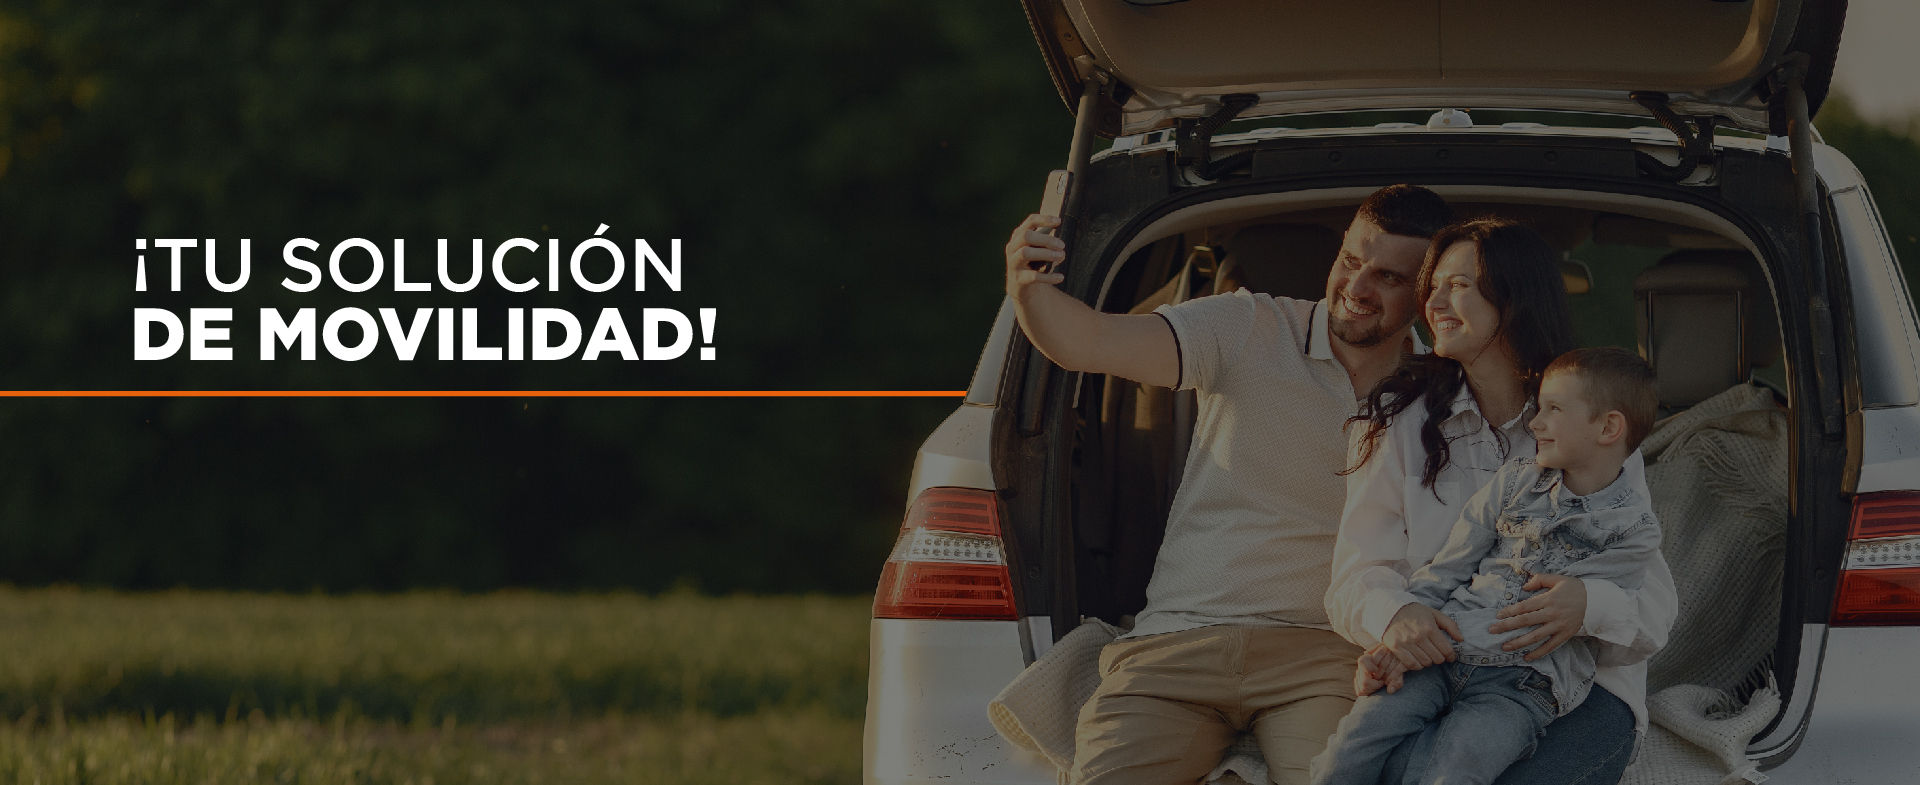
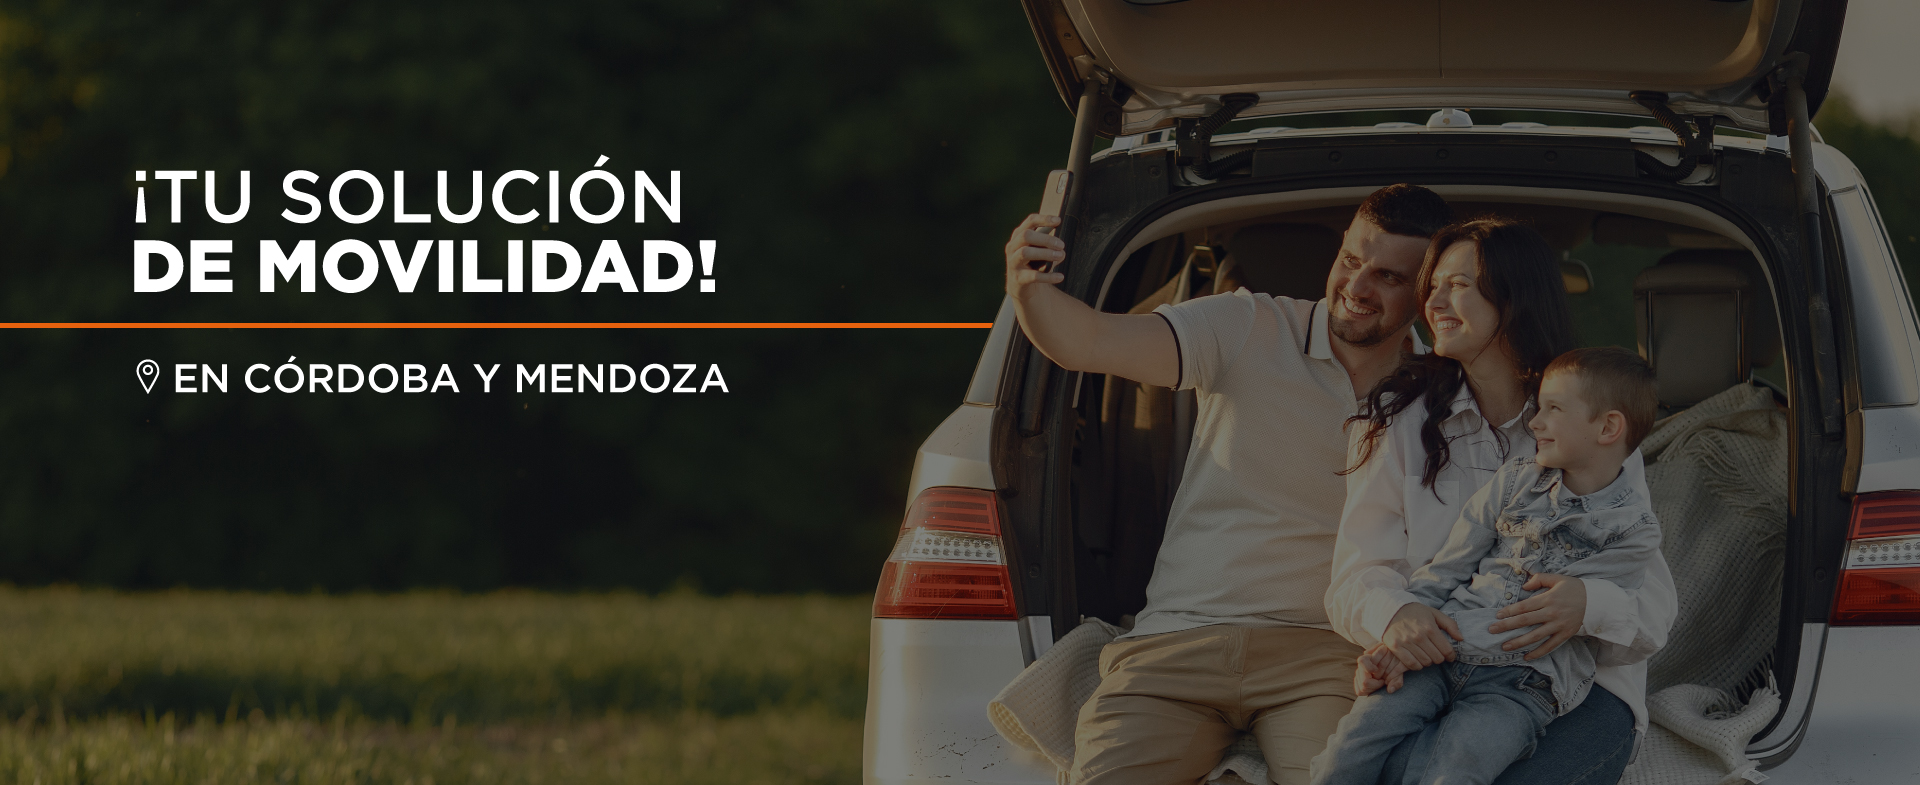
ultimos cambios

Changed region(s): [[0.0, 0.214, 0.5312, 0.5197], [0.9688, 0.6726, 1.0, 0.7032]]

diff --git a/nosotros.html b/nosotros.html
@@ -295,7 +295,7 @@
                 <div class="col-lg-4 col-md-4"><img src="images/empresa.jpg" alt=""></div>
 				 <div class="col-lg-8">
                     <h3 class="margin-bottom-20px text-red  text-uppercase trn">Nosotros</h3>
-                    <h6 class="margin-bottom-30px trn">Rentauto surgió en 2004 como una PyME encargada de satisfacer la demanda creciente en el alquiler de autos sin chofer en Córdoba. Somos una empresa dedicada a dar soluciones de movilidad, con una trayectoria en el rubro de casi 20 años, posicionándonos como líderes en el mercado local de alquiler de vehículos, avalados por numerosas empresas y particulares que día a día nos eligen.</h6>
+                    <h6 class="margin-bottom-30px trn">Rentauto surgió en 2004 como una PyME encargada de satisfacer la demanda creciente en el alquiler de autos sin chofer en Córdoba.Luego, expandimos nuestros servicios en Mendoza.Somos una empresa dedicada a dar soluciones de movilidad, con una trayectoria en el rubro de casi 20 años, posicionándonos como líderes en el mercado local de alquiler de vehículos, avalados por numerosas empresas y particulares que día a día nos eligen.</h6>
 					<p class="text-grey-2 margin-bottom-10px trn">Nuestra compañía cuenta con ubicaciones estratégicas que facilitan a los clientes el acceso a nuestros servicios. Formamos un Equipo de Trabajo que está comprometido a lograr que su experiencia sea placentera, con la flota más moderna y variada del mercado, al mejor precio.</p>
                     <p class="text-grey-2 margin-bottom-10px trn">Nuestro principal valor es darles a nuestros clientes la máxima satisfacción brindando una atención personalizada, con el objetivo de poder superar sus expectativas.</p>
                     <p class="text-grey-2 margin-bottom-30px trn">Logramos esto gracias a los altos estándares de calidad que nos encargamos de cumplir día a día.</p>
